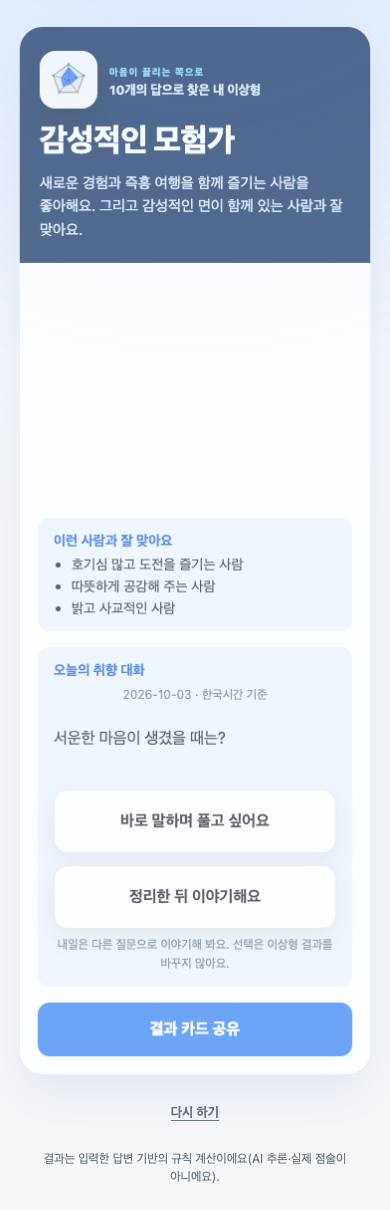
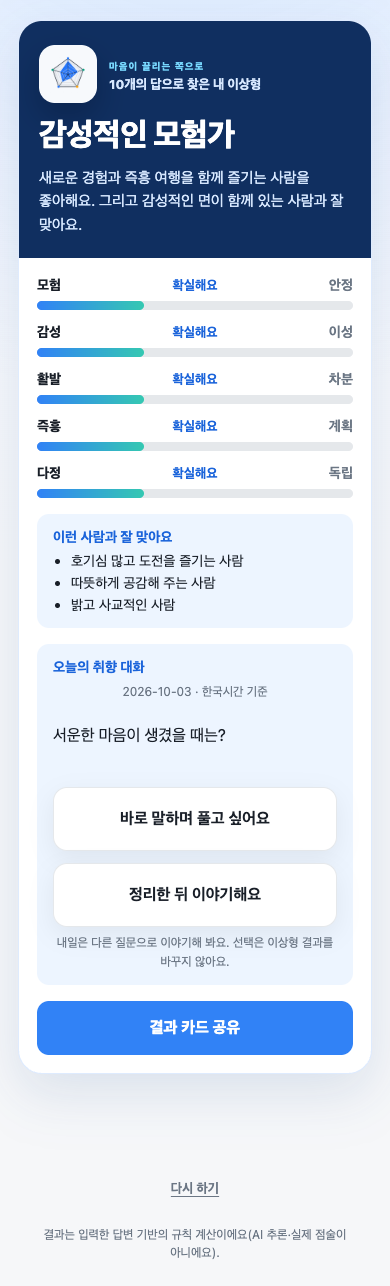
fix(landing): Show the complete mobile live result example
Show the complete unchanged live result screenshot and preserve the original example asset.

diff --git a/index.html b/index.html
@@ -8,7 +8,7 @@
 #daily-next[hidden]{display:none}
 #daily-next:not([hidden]){margin:12px 0;font-size:15px}
 #daily-today-link:not([hidden]){display:flex;align-items:center;min-height:48px;color:#1b64da;font-size:14px;font-weight:700;margin-bottom:8px}
-</style></head><body><main><article class="card"><img class="hero" src="taste-journey.webp" width="1200" height="550" alt="꽃밭에서 함께 취향 여행을 떠나는 두 토끼"><p class="eyebrow">마음이 끌리는 쪽으로</p><h1>내 이상형,<br>어떤 사람일까요?</h1><p>가벼운 10개 질문에 답하고<br>모험·감성·활발함·즉흥성·다정함의<br>다섯 축으로 내 취향을 만나보세요.</p><div class="chips"><span>10문항</span><span>약 1분 30초</span><span>토스에서 이용</span></div><a class="cta" href="intoss://ideal-type-calc">토스에서 내 취향 찾기</a><p class="hint">토스 앱이 설치된 휴대폰에서 열어주세요.</p><details class="search-help"><summary>토스 앱이 열리지 않나요?</summary><p>토스 앱을 직접 열고 검색창에서 <strong>이상형 찾기 테스트</strong>를 검색해 주세요.</p><div class="share-actions"><button id="copy-search-name" type="button">토스 검색어 복사</button></div><p id="search-copy-status" class="share-status" role="status" aria-live="polite"></p><input id="manual-search-name" class="manual-link" aria-label="토스에서 검색할 앱 이름" value="이상형 찾기 테스트" readonly hidden></details><details class="phone-transfer"><summary>PC에서 보고 있나요? 휴대폰으로 이어서 열기</summary><svg role="img" aria-label="휴대폰 카메라로 열 테스트 안내 링크 QR 코드" width="32.8mm" height="32.8mm" version="1.1" viewBox="0 0 32.8 32.8" xmlns="http://www.w3.org/2000/svg"><path d="M3.2,3.2H4V4H3.2zM4,3.2H4.8V4H4zM4.8,3.2H5.6V4H4.8zM5.6,3.2H6.4V4H5.6zM6.4,3.2H7.2V4H6.4zM7.2,3.2H8V4H7.2zM8,3.2H8.8V4H8zM13.6,3.2H14.4V4H13.6zM16,3.2H16.8V4H16zM16.8,3.2H17.6V4H16.8zM17.6,3.2H18.4V4H17.6zM18.4,3.2H19.2V4H18.4zM19.2,3.2H20V4H19.2zM21.6,3.2H22.4V4H21.6zM24,3.2H24.8V4H24zM24.8,3.2H25.6V4H24.8zM25.6,3.2H26.4V4H25.6zM26.4,3.2H27.2V4H26.4zM27.2,3.2H28V4H27.2zM28,3.2H28.8V4H28zM28.8,3.2H29.6V4H28.8zM3.2,4H4V4.8H3.2zM8,4H8.8V4.8H8zM11.2,4H12V4.8H11.2zM12,4H12.8V4.8H12zM12.8,4H13.6V4.8H12.8zM13.6,4H14.4V4.8H13.6zM14.4,4H15.2V4.8H14.4zM15.2,4H16V4.8H15.2zM16,4H16.8V4.8H16zM16.8,4H17.6V4.8H16.8zM20,4H20.8V4.8H20zM20.8,4H21.6V4.8H20.8zM24,4H24.8V4.8H24zM28.8,4H29.6V4.8H28.8zM3.2,4.8H4V5.6H3.2zM4.8,4.8H5.6V5.6H4.8zM5.6,4.8H6.4V5.6H5.6zM6.4,4.8H7.2V5.6H6.4zM8,4.8H8.8V5.6H8zM9.6,4.8H10.4V5.6H9.6zM11.2,4.8H12V5.6H11.2zM13.6,4.8H14.4V5.6H13.6zM15.2,4.8H16V5.6H15.2zM16.8,4.8H17.6V5.6H16.8zM17.6,4.8H18.4V5.6H17.6zM18.4,4.8H19.2V5.6H18.4zM19.2,4.8H20V5.6H19.2zM20,4.8H20.8V5.6H20zM24,4.8H24.8V5.6H24zM25.6,4.8H26.4V5.6H25.6zM26.4,4.8H27.2V5.6H26.4zM27.2,4.8H28V5.6H27.2zM28.8,4.8H29.6V5.6H28.8zM3.2,5.6H4V6.4H3.2zM4.8,5.6H5.6V6.4H4.8zM5.6,5.6H6.4V6.4H5.6zM6.4,5.6H7.2V6.4H6.4zM8,5.6H8.8V6.4H8zM9.6,5.6H10.4V6.4H9.6zM10.4,5.6H11.2V6.4H10.4zM11.2,5.6H12V6.4H11.2zM12,5.6H12.8V6.4H12zM12.8,5.6H13.6V6.4H12.8zM14.4,5.6H15.2V6.4H14.4zM16,5.6H16.8V6.4H16zM18.4,5.6H19.2V6.4H18.4zM19.2,5.6H20V6.4H19.2zM20.8,5.6H21.6V6.4H20.8zM22.4,5.6H23.2V6.4H22.4zM24,5.6H24.8V6.4H24zM25.6,5.6H26.4V6.4H25.6zM26.4,5.6H27.2V6.4H26.4zM27.2,5.6H28V6.4H27.2zM28.8,5.6H29.6V6.4H28.8zM3.2,6.4H4V7.2H3.2zM4.8,6.4H5.6V7.2H4.8zM5.6,6.4H6.4V7.2H5.6zM6.4,6.4H7.2V7.2H6.4zM8,6.4H8.8V7.2H8zM9.6,6.4H10.4V7.2H9.6zM10.4,6.4H11.2V7.2H10.4zM13.6,6.4H14.4V7.2H13.6zM15.2,6.4H16V7.2H15.2zM17.6,6.4H18.4V7.2H17.6zM21.6,6.4H22.4V7.2H21.6zM24,6.4H24.8V7.2H24zM25.6,6.4H26.4V7.2H25.6zM26.4,6.4H27.2V7.2H26.4zM27.2,6.4H28V7.2H27.2zM28.8,6.4H29.6V7.2H28.8zM3.2,7.2H4V8H3.2zM8,7.2H8.8V8H8zM9.6,7.2H10.4V8H9.6zM10.4,7.2H11.2V8H10.4zM12,7.2H12.8V8H12zM13.6,7.2H14.4V8H13.6zM14.4,7.2H15.2V8H14.4zM15.2,7.2H16V8H15.2zM16,7.2H16.8V8H16zM16.8,7.2H17.6V8H16.8zM19.2,7.2H20V8H19.2zM20.8,7.2H21.6V8H20.8zM24,7.2H24.8V8H24zM28.8,7.2H29.6V8H28.8zM3.2,8H4V8.8H3.2zM4,8H4.8V8.8H4zM4.8,8H5.6V8.8H4.8zM5.6,8H6.4V8.8H5.6zM6.4,8H7.2V8.8H6.4zM7.2,8H8V8.8H7.2zM8,8H8.8V8.8H8zM9.6,8H10.4V8.8H9.6zM11.2,8H12V8.8H11.2zM12.8,8H13.6V8.8H12.8zM14.4,8H15.2V8.8H14.4zM16,8H16.8V8.8H16zM17.6,8H18.4V8.8H17.6zM19.2,8H20V8.8H19.2zM20.8,8H21.6V8.8H20.8zM22.4,8H23.2V8.8H22.4zM24,8H24.8V8.8H24zM24.8,8H25.6V8.8H24.8zM25.6,8H26.4V8.8H25.6zM26.4,8H27.2V8.8H26.4zM27.2,8H28V8.8H27.2zM28,8H28.8V8.8H28zM28.8,8H29.6V8.8H28.8zM9.6,8.8H10.4V9.6H9.6zM10.4,8.8H11.2V9.6H10.4zM11.2,8.8H12V9.6H11.2zM12.8,8.8H13.6V9.6H12.8zM14.4,8.8H15.2V9.6H14.4zM15.2,8.8H16V9.6H15.2zM20,8.8H20.8V9.6H20zM22.4,8.8H23.2V9.6H22.4zM3.2,9.6H4V10.4H3.2zM4.8,9.6H5.6V10.4H4.8zM5.6,9.6H6.4V10.4H5.6zM6.4,9.6H7.2V10.4H6.4zM7.2,9.6H8V10.4H7.2zM8,9.6H8.8V10.4H8zM10.4,9.6H11.2V10.4H10.4zM11.2,9.6H12V10.4H11.2zM12,9.6H12.8V10.4H12zM13.6,9.6H14.4V10.4H13.6zM15.2,9.6H16V10.4H15.2zM16.8,9.6H17.6V10.4H16.8zM20.8,9.6H21.6V10.4H20.8zM22.4,9.6H23.2V10.4H22.4zM24,9.6H24.8V10.4H24zM24.8,9.6H25.6V10.4H24.8zM25.6,9.6H26.4V10.4H25.6zM26.4,9.6H27.2V10.4H26.4zM27.2,9.6H28V10.4H27.2zM4.8,10.4H5.6V11.2H4.8zM5.6,10.4H6.4V11.2H5.6zM6.4,10.4H7.2V11.2H6.4zM7.2,10.4H8V11.2H7.2zM9.6,10.4H10.4V11.2H9.6zM10.4,10.4H11.2V11.2H10.4zM11.2,10.4H12V11.2H11.2zM12.8,10.4H13.6V11.2H12.8zM16,10.4H16.8V11.2H16zM17.6,10.4H18.4V11.2H17.6zM18.4,10.4H19.2V11.2H18.4zM20,10.4H20.8V11.2H20zM21.6,10.4H22.4V11.2H21.6zM24,10.4H24.8V11.2H24zM24.8,10.4H25.6V11.2H24.8zM26.4,10.4H27.2V11.2H26.4zM27.2,10.4H28V11.2H27.2zM28.8,10.4H29.6V11.2H28.8zM3.2,11.2H4V12H3.2zM8,11.2H8.8V12H8zM8.8,11.2H9.6V12H8.8zM10.4,11.2H11.2V12H10.4zM12,11.2H12.8V12H12zM12.8,11.2H13.6V12H12.8zM15.2,11.2H16V12H15.2zM17.6,11.2H18.4V12H17.6zM19.2,11.2H20V12H19.2zM24,11.2H24.8V12H24zM25.6,11.2H26.4V12H25.6zM27.2,11.2H28V12H27.2zM28,11.2H28.8V12H28zM4,12H4.8V12.8H4zM5.6,12H6.4V12.8H5.6zM6.4,12H7.2V12.8H6.4zM7.2,12H8V12.8H7.2zM8.8,12H9.6V12.8H8.8zM9.6,12H10.4V12.8H9.6zM10.4,12H11.2V12.8H10.4zM11.2,12H12V12.8H11.2zM12,12H12.8V12.8H12zM12.8,12H13.6V12.8H12.8zM14.4,12H15.2V12.8H14.4zM16,12H16.8V12.8H16zM20,12H20.8V12.8H20zM20.8,12H21.6V12.8H20.8zM21.6,12H22.4V12.8H21.6zM23.2,12H24V12.8H23.2zM25.6,12H26.4V12.8H25.6zM26.4,12H27.2V12.8H26.4zM27.2,12H28V12.8H27.2zM3.2,12.8H4V13.6H3.2zM7.2,12.8H8V13.6H7.2zM8,12.8H8.8V13.6H8zM8.8,12.8H9.6V13.6H8.8zM11.2,12.8H12V13.6H11.2zM12,12.8H12.8V13.6H12zM12.8,12.8H13.6V13.6H12.8zM17.6,12.8H18.4V13.6H17.6zM18.4,12.8H19.2V13.6H18.4zM22.4,12.8H23.2V13.6H22.4zM23.2,12.8H24V13.6H23.2zM25.6,12.8H26.4V13.6H25.6zM26.4,12.8H27.2V13.6H26.4zM28,12.8H28.8V13.6H28zM3.2,13.6H4V14.4H3.2zM4,13.6H4.8V14.4H4zM5.6,13.6H6.4V14.4H5.6zM6.4,13.6H7.2V14.4H6.4zM9.6,13.6H10.4V14.4H9.6zM10.4,13.6H11.2V14.4H10.4zM12,13.6H12.8V14.4H12zM12.8,13.6H13.6V14.4H12.8zM13.6,13.6H14.4V14.4H13.6zM14.4,13.6H15.2V14.4H14.4zM15.2,13.6H16V14.4H15.2zM16,13.6H16.8V14.4H16zM16.8,13.6H17.6V14.4H16.8zM19.2,13.6H20V14.4H19.2zM20,13.6H20.8V14.4H20zM21.6,13.6H22.4V14.4H21.6zM23.2,13.6H24V14.4H23.2zM24,13.6H24.8V14.4H24zM26.4,13.6H27.2V14.4H26.4zM27.2,13.6H28V14.4H27.2zM28,13.6H28.8V14.4H28zM28.8,13.6H29.6V14.4H28.8zM3.2,14.4H4V15.2H3.2zM4,14.4H4.8V15.2H4zM4.8,14.4H5.6V15.2H4.8zM8,14.4H8.8V15.2H8zM8.8,14.4H9.6V15.2H8.8zM9.6,14.4H10.4V15.2H9.6zM11.2,14.4H12V15.2H11.2zM12,14.4H12.8V15.2H12zM12.8,14.4H13.6V15.2H12.8zM14.4,14.4H15.2V15.2H14.4zM17.6,14.4H18.4V15.2H17.6zM18.4,14.4H19.2V15.2H18.4zM20,14.4H20.8V15.2H20zM20.8,14.4H21.6V15.2H20.8zM23.2,14.4H24V15.2H23.2zM24,14.4H24.8V15.2H24zM24.8,14.4H25.6V15.2H24.8zM26.4,14.4H27.2V15.2H26.4zM27.2,14.4H28V15.2H27.2zM28,14.4H28.8V15.2H28zM3.2,15.2H4V16H3.2zM5.6,15.2H6.4V16H5.6zM6.4,15.2H7.2V16H6.4zM12.8,15.2H13.6V16H12.8zM13.6,15.2H14.4V16H13.6zM16,15.2H16.8V16H16zM18.4,15.2H19.2V16H18.4zM19.2,15.2H20V16H19.2zM20,15.2H20.8V16H20zM20.8,15.2H21.6V16H20.8zM21.6,15.2H22.4V16H21.6zM22.4,15.2H23.2V16H22.4zM23.2,15.2H24V16H23.2zM24,15.2H24.8V16H24zM26.4,15.2H27.2V16H26.4zM27.2,15.2H28V16H27.2zM3.2,16H4V16.8H3.2zM4,16H4.8V16.8H4zM7.2,16H8V16.8H7.2zM8,16H8.8V16.8H8zM10.4,16H11.2V16.8H10.4zM12.8,16H13.6V16.8H12.8zM16.8,16H17.6V16.8H16.8zM18.4,16H19.2V16.8H18.4zM20.8,16H21.6V16.8H20.8zM22.4,16H23.2V16.8H22.4zM23.2,16H24V16.8H23.2zM24.8,16H25.6V16.8H24.8zM25.6,16H26.4V16.8H25.6zM28.8,16H29.6V16.8H28.8zM4,16.8H4.8V17.6H4zM4.8,16.8H5.6V17.6H4.8zM6.4,16.8H7.2V17.6H6.4zM7.2,16.8H8V17.6H7.2zM8.8,16.8H9.6V17.6H8.8zM9.6,16.8H10.4V17.6H9.6zM10.4,16.8H11.2V17.6H10.4zM14.4,16.8H15.2V17.6H14.4zM16.8,16.8H17.6V17.6H16.8zM18.4,16.8H19.2V17.6H18.4zM19.2,16.8H20V17.6H19.2zM20.8,16.8H21.6V17.6H20.8zM21.6,16.8H22.4V17.6H21.6zM24,16.8H24.8V17.6H24zM24.8,16.8H25.6V17.6H24.8zM26.4,16.8H27.2V17.6H26.4zM27.2,16.8H28V17.6H27.2zM28.8,16.8H29.6V17.6H28.8zM3.2,17.6H4V18.4H3.2zM7.2,17.6H8V18.4H7.2zM8,17.6H8.8V18.4H8zM12,17.6H12.8V18.4H12zM14.4,17.6H15.2V18.4H14.4zM15.2,17.6H16V18.4H15.2zM16.8,17.6H17.6V18.4H16.8zM19.2,17.6H20V18.4H19.2zM20,17.6H20.8V18.4H20zM20.8,17.6H21.6V18.4H20.8zM24.8,17.6H25.6V18.4H24.8zM25.6,17.6H26.4V18.4H25.6zM27.2,17.6H28V18.4H27.2zM28,17.6H28.8V18.4H28zM9.6,18.4H10.4V19.2H9.6zM10.4,18.4H11.2V19.2H10.4zM12.8,18.4H13.6V19.2H12.8zM16.8,18.4H17.6V19.2H16.8zM17.6,18.4H18.4V19.2H17.6zM20,18.4H20.8V19.2H20zM20.8,18.4H21.6V19.2H20.8zM21.6,18.4H22.4V19.2H21.6zM24.8,18.4H25.6V19.2H24.8zM25.6,18.4H26.4V19.2H25.6zM26.4,18.4H27.2V19.2H26.4zM27.2,18.4H28V19.2H27.2zM28,18.4H28.8V19.2H28zM3.2,19.2H4V20H3.2zM4.8,19.2H5.6V20H4.8zM6.4,19.2H7.2V20H6.4zM7.2,19.2H8V20H7.2zM8,19.2H8.8V20H8zM8.8,19.2H9.6V20H8.8zM11.2,19.2H12V20H11.2zM12,19.2H12.8V20H12zM14.4,19.2H15.2V20H14.4zM15.2,19.2H16V20H15.2zM16,19.2H16.8V20H16zM20.8,19.2H21.6V20H20.8zM21.6,19.2H22.4V20H21.6zM22.4,19.2H23.2V20H22.4zM23.2,19.2H24V20H23.2zM25.6,19.2H26.4V20H25.6zM26.4,19.2H27.2V20H26.4zM28.8,19.2H29.6V20H28.8zM3.2,20H4V20.8H3.2zM4,20H4.8V20.8H4zM4.8,20H5.6V20.8H4.8zM5.6,20H6.4V20.8H5.6zM7.2,20H8V20.8H7.2zM9.6,20H10.4V20.8H9.6zM11.2,20H12V20.8H11.2zM12.8,20H13.6V20.8H12.8zM15.2,20H16V20.8H15.2zM17.6,20H18.4V20.8H17.6zM20,20H20.8V20.8H20zM21.6,20H22.4V20.8H21.6zM24,20H24.8V20.8H24zM27.2,20H28V20.8H27.2zM28.8,20H29.6V20.8H28.8zM3.2,20.8H4V21.6H3.2zM4.8,20.8H5.6V21.6H4.8zM8,20.8H8.8V21.6H8zM9.6,20.8H10.4V21.6H9.6zM12.8,20.8H13.6V21.6H12.8zM13.6,20.8H14.4V21.6H13.6zM14.4,20.8H15.2V21.6H14.4zM15.2,20.8H16V21.6H15.2zM16,20.8H16.8V21.6H16zM19.2,20.8H20V21.6H19.2zM23.2,20.8H24V21.6H23.2zM24,20.8H24.8V21.6H24zM26.4,20.8H27.2V21.6H26.4zM27.2,20.8H28V21.6H27.2zM28,20.8H28.8V21.6H28zM3.2,21.6H4V22.4H3.2zM4.8,21.6H5.6V22.4H4.8zM9.6,21.6H10.4V22.4H9.6zM12,21.6H12.8V22.4H12zM13.6,21.6H14.4V22.4H13.6zM15.2,21.6H16V22.4H15.2zM17.6,21.6H18.4V22.4H17.6zM18.4,21.6H19.2V22.4H18.4zM19.2,21.6H20V22.4H19.2zM20,21.6H20.8V22.4H20zM20.8,21.6H21.6V22.4H20.8zM24,21.6H24.8V22.4H24zM25.6,21.6H26.4V22.4H25.6zM26.4,21.6H27.2V22.4H26.4zM27.2,21.6H28V22.4H27.2zM28.8,21.6H29.6V22.4H28.8zM3.2,22.4H4V23.2H3.2zM8,22.4H8.8V23.2H8zM9.6,22.4H10.4V23.2H9.6zM10.4,22.4H11.2V23.2H10.4zM11.2,22.4H12V23.2H11.2zM13.6,22.4H14.4V23.2H13.6zM15.2,22.4H16V23.2H15.2zM16.8,22.4H17.6V23.2H16.8zM18.4,22.4H19.2V23.2H18.4zM20.8,22.4H21.6V23.2H20.8zM21.6,22.4H22.4V23.2H21.6zM22.4,22.4H23.2V23.2H22.4zM23.2,22.4H24V23.2H23.2zM24,22.4H24.8V23.2H24zM24.8,22.4H25.6V23.2H24.8zM25.6,22.4H26.4V23.2H25.6zM9.6,23.2H10.4V24H9.6zM12.8,23.2H13.6V24H12.8zM13.6,23.2H14.4V24H13.6zM16,23.2H16.8V24H16zM17.6,23.2H18.4V24H17.6zM18.4,23.2H19.2V24H18.4zM19.2,23.2H20V24H19.2zM22.4,23.2H23.2V24H22.4zM25.6,23.2H26.4V24H25.6zM27.2,23.2H28V24H27.2zM28.8,23.2H29.6V24H28.8zM3.2,24H4V24.8H3.2zM4,24H4.8V24.8H4zM4.8,24H5.6V24.8H4.8zM5.6,24H6.4V24.8H5.6zM6.4,24H7.2V24.8H6.4zM7.2,24H8V24.8H7.2zM8,24H8.8V24.8H8zM12,24H12.8V24.8H12zM14.4,24H15.2V24.8H14.4zM15.2,24H16V24.8H15.2zM16,24H16.8V24.8H16zM17.6,24H18.4V24.8H17.6zM19.2,24H20V24.8H19.2zM20.8,24H21.6V24.8H20.8zM21.6,24H22.4V24.8H21.6zM22.4,24H23.2V24.8H22.4zM24,24H24.8V24.8H24zM25.6,24H26.4V24.8H25.6zM27.2,24H28V24.8H27.2zM28,24H28.8V24.8H28zM3.2,24.8H4V25.6H3.2zM8,24.8H8.8V25.6H8zM9.6,24.8H10.4V25.6H9.6zM11.2,24.8H12V25.6H11.2zM12,24.8H12.8V25.6H12zM15.2,24.8H16V25.6H15.2zM16,24.8H16.8V25.6H16zM18.4,24.8H19.2V25.6H18.4zM20,24.8H20.8V25.6H20zM20.8,24.8H21.6V25.6H20.8zM21.6,24.8H22.4V25.6H21.6zM22.4,24.8H23.2V25.6H22.4zM25.6,24.8H26.4V25.6H25.6zM26.4,24.8H27.2V25.6H26.4zM27.2,24.8H28V25.6H27.2zM28,24.8H28.8V25.6H28zM28.8,24.8H29.6V25.6H28.8zM3.2,25.6H4V26.4H3.2zM4.8,25.6H5.6V26.4H4.8zM5.6,25.6H6.4V26.4H5.6zM6.4,25.6H7.2V26.4H6.4zM8,25.6H8.8V26.4H8zM9.6,25.6H10.4V26.4H9.6zM10.4,25.6H11.2V26.4H10.4zM12,25.6H12.8V26.4H12zM15.2,25.6H16V26.4H15.2zM17.6,25.6H18.4V26.4H17.6zM20.8,25.6H21.6V26.4H20.8zM22.4,25.6H23.2V26.4H22.4zM23.2,25.6H24V26.4H23.2zM24,25.6H24.8V26.4H24zM24.8,25.6H25.6V26.4H24.8zM25.6,25.6H26.4V26.4H25.6zM26.4,25.6H27.2V26.4H26.4zM28,25.6H28.8V26.4H28zM28.8,25.6H29.6V26.4H28.8zM3.2,26.4H4V27.2H3.2zM4.8,26.4H5.6V27.2H4.8zM5.6,26.4H6.4V27.2H5.6zM6.4,26.4H7.2V27.2H6.4zM8,26.4H8.8V27.2H8zM9.6,26.4H10.4V27.2H9.6zM11.2,26.4H12V27.2H11.2zM12.8,26.4H13.6V27.2H12.8zM15.2,26.4H16V27.2H15.2zM16,26.4H16.8V27.2H16zM16.8,26.4H17.6V27.2H16.8zM18.4,26.4H19.2V27.2H18.4zM21.6,26.4H22.4V27.2H21.6zM22.4,26.4H23.2V27.2H22.4zM23.2,26.4H24V27.2H23.2zM25.6,26.4H26.4V27.2H25.6zM26.4,26.4H27.2V27.2H26.4zM28,26.4H28.8V27.2H28zM28.8,26.4H29.6V27.2H28.8zM3.2,27.2H4V28H3.2zM4.8,27.2H5.6V28H4.8zM5.6,27.2H6.4V28H5.6zM6.4,27.2H7.2V28H6.4zM8,27.2H8.8V28H8zM9.6,27.2H10.4V28H9.6zM10.4,27.2H11.2V28H10.4zM14.4,27.2H15.2V28H14.4zM17.6,27.2H18.4V28H17.6zM19.2,27.2H20V28H19.2zM20,27.2H20.8V28H20zM21.6,27.2H22.4V28H21.6zM22.4,27.2H23.2V28H22.4zM24,27.2H24.8V28H24zM24.8,27.2H25.6V28H24.8zM27.2,27.2H28V28H27.2zM3.2,28H4V28.8H3.2zM8,28H8.8V28.8H8zM10.4,28H11.2V28.8H10.4zM12,28H12.8V28.8H12zM12.8,28H13.6V28.8H12.8zM14.4,28H15.2V28.8H14.4zM16,28H16.8V28.8H16zM17.6,28H18.4V28.8H17.6zM18.4,28H19.2V28.8H18.4zM19.2,28H20V28.8H19.2zM20,28H20.8V28.8H20zM20.8,28H21.6V28.8H20.8zM23.2,28H24V28.8H23.2zM25.6,28H26.4V28.8H25.6zM27.2,28H28V28.8H27.2zM3.2,28.8H4V29.6H3.2zM4,28.8H4.8V29.6H4zM4.8,28.8H5.6V29.6H4.8zM5.6,28.8H6.4V29.6H5.6zM6.4,28.8H7.2V29.6H6.4zM7.2,28.8H8V29.6H7.2zM8,28.8H8.8V29.6H8zM9.6,28.8H10.4V29.6H9.6zM11.2,28.8H12V29.6H11.2zM12.8,28.8H13.6V29.6H12.8zM13.6,28.8H14.4V29.6H13.6zM14.4,28.8H15.2V29.6H14.4zM16,28.8H16.8V29.6H16zM16.8,28.8H17.6V29.6H16.8zM19.2,28.8H20V29.6H19.2zM20.8,28.8H21.6V29.6H20.8zM22.4,28.8H23.2V29.6H22.4zM23.2,28.8H24V29.6H23.2zM24.8,28.8H25.6V29.6H24.8zM28,28.8H28.8V29.6H28z" id="qr-path" fill="#000000" fill-opacity="1" fill-rule="nonzero" stroke="none" /></svg><p>휴대폰 카메라로 QR 코드를 비추면 이 안내 페이지가 열려요. 휴대폰에서 토스에서 내 취향 찾기를 눌러주세요.</p><p>QR을 읽기 어렵다면 아래 링크를 휴대폰으로 보내주세요.<br><a href="https://neogenesisai.github.io/ideal-type-calc-og/">테스트 안내 페이지 링크</a></p></details><div class="share-actions"><button type="button" id="share-test">친구에게 테스트 공유</button><button type="button" id="copy-link">링크 복사</button></div><p id="share-status" class="share-status" role="status" aria-live="polite"></p><input id="manual-link" class="manual-link" aria-label="친구에게 보낼 테스트 링크" readonly hidden><section class="daily-preview" aria-labelledby="daily-title"><h2 id="daily-title">오늘의 취향 대화</h2><p id="daily-date" class="daily-date"></p><p id="daily-archive-note" class="small" hidden></p><a id="daily-today-link" href="https://neogenesisai.github.io/ideal-type-calc-og/#daily-title" hidden>오늘의 새 질문 보기</a><p id="daily-question"></p><div class="daily-options"><button id="daily-a" type="button" aria-pressed="false"></button><button id="daily-b" type="button" aria-pressed="false"></button></div><p id="daily-status" class="daily-status" role="status" aria-live="polite"></p><a class="cta" id="daily-next" href="intoss://ideal-type-calc" hidden>토스에서 10문항으로 내 취향 확인</a><div class="share-actions"><button type="button" id="share-daily">오늘의 질문 친구에게 보내기</button></div><p id="daily-share-status" class="share-status" role="status" aria-live="polite"></p><textarea id="daily-share-text" class="manual-link" rows="7" aria-label="친구에게 보낼 오늘의 질문" readonly hidden></textarea><p class="small">공유 링크에서는 같은 날짜의 질문을 볼 수 있고, 내 선택은 포함되지 않아요. 오늘의 선택만 이 브라우저에 저장돼요. 지난 질문의 선택은 저장되지 않으며 토스 결과에는 반영되지 않아요.</p><noscript><p>오늘의 질문은 토스에서 결과를 확인한 뒤 볼 수 있어요.</p></noscript></section><h2 class="preview-intro" id="preview-heading">결과는 이렇게 보여요</h2><p class="small">예시 답변으로 만든 결과예요. 내 결과는 토스에서 10문항에 답하면 확인할 수 있어요.</p><details class="result-preview" aria-labelledby="preview-heading"><summary><span class="preview-crop"><img src="result-live9.png" width="390" height="1210" loading="lazy" alt="예시 결과: 감성적인 모험가. 새로운 경험과 즉흥 여행을 즐기는 사람을 좋아하는 취향"></span><span class="preview-expand">다섯 축이 담긴 전체 예시 펼치기</span><span class="preview-collapse">전체 예시 접기</span></summary><div class="preview-body"><p class="preview-note">아래는 실제 앱 화면의 예시예요. 날짜와 오늘의 질문은 이용하는 날에 따라 달라져요.</p><img class="preview-full" src="result-live9.png" width="390" height="1210" loading="lazy" alt="감성적인 모험가 예시 화면: 모험·감성·활발·즉흥·다정 취향, 잘 맞는 사람의 특징, 오늘의 취향 대화"></div></details><a class="cta" id="start-after-preview" href="intoss://ideal-type-calc">토스에서 내 결과 확인하기</a><p class="hint">10문항에 답하고 내 취향을 확인해 보세요.</p><section class="feature"><h2>결과는 친구와 함께</h2><p>내 취향 프로필과 잘 맞는 사람의 특징을 확인하고, 결과 카드를 공유해 서로의 취향을 이야기해 보세요.</p></section><section class="feature"><h2>내일은 새로운 취향 대화</h2><p>결과 아래에서 매일 바뀌는 질문에 답해 보세요. 오늘의 선택은 테스트 결과를 바꾸지 않아요.</p></section><p class="small">답변에 정해진 가중치를 적용하는 재미용 자기취향 테스트예요. AI 추론·심리 진단·점술·연애 성공 예측·실제 상대 추천이 아닙니다. 이 안내 페이지의 오늘의 선택은 이 브라우저에만 저장되며, 토스 서비스 이용 연령은 만 19세 이상입니다.</p></article><p class="foot">이상형 찾기 테스트 · 이상형 계산기</p></main><script>
+</style></head><body><main><article class="card"><img class="hero" src="taste-journey.webp" width="1200" height="550" alt="꽃밭에서 함께 취향 여행을 떠나는 두 토끼"><p class="eyebrow">마음이 끌리는 쪽으로</p><h1>내 이상형,<br>어떤 사람일까요?</h1><p>가벼운 10개 질문에 답하고<br>모험·감성·활발함·즉흥성·다정함의<br>다섯 축으로 내 취향을 만나보세요.</p><div class="chips"><span>10문항</span><span>약 1분 30초</span><span>토스에서 이용</span></div><a class="cta" href="intoss://ideal-type-calc">토스에서 내 취향 찾기</a><p class="hint">토스 앱이 설치된 휴대폰에서 열어주세요.</p><details class="search-help"><summary>토스 앱이 열리지 않나요?</summary><p>토스 앱을 직접 열고 검색창에서 <strong>이상형 찾기 테스트</strong>를 검색해 주세요.</p><div class="share-actions"><button id="copy-search-name" type="button">토스 검색어 복사</button></div><p id="search-copy-status" class="share-status" role="status" aria-live="polite"></p><input id="manual-search-name" class="manual-link" aria-label="토스에서 검색할 앱 이름" value="이상형 찾기 테스트" readonly hidden></details><details class="phone-transfer"><summary>PC에서 보고 있나요? 휴대폰으로 이어서 열기</summary><svg role="img" aria-label="휴대폰 카메라로 열 테스트 안내 링크 QR 코드" width="32.8mm" height="32.8mm" version="1.1" viewBox="0 0 32.8 32.8" xmlns="http://www.w3.org/2000/svg"><path d="M3.2,3.2H4V4H3.2zM4,3.2H4.8V4H4zM4.8,3.2H5.6V4H4.8zM5.6,3.2H6.4V4H5.6zM6.4,3.2H7.2V4H6.4zM7.2,3.2H8V4H7.2zM8,3.2H8.8V4H8zM13.6,3.2H14.4V4H13.6zM16,3.2H16.8V4H16zM16.8,3.2H17.6V4H16.8zM17.6,3.2H18.4V4H17.6zM18.4,3.2H19.2V4H18.4zM19.2,3.2H20V4H19.2zM21.6,3.2H22.4V4H21.6zM24,3.2H24.8V4H24zM24.8,3.2H25.6V4H24.8zM25.6,3.2H26.4V4H25.6zM26.4,3.2H27.2V4H26.4zM27.2,3.2H28V4H27.2zM28,3.2H28.8V4H28zM28.8,3.2H29.6V4H28.8zM3.2,4H4V4.8H3.2zM8,4H8.8V4.8H8zM11.2,4H12V4.8H11.2zM12,4H12.8V4.8H12zM12.8,4H13.6V4.8H12.8zM13.6,4H14.4V4.8H13.6zM14.4,4H15.2V4.8H14.4zM15.2,4H16V4.8H15.2zM16,4H16.8V4.8H16zM16.8,4H17.6V4.8H16.8zM20,4H20.8V4.8H20zM20.8,4H21.6V4.8H20.8zM24,4H24.8V4.8H24zM28.8,4H29.6V4.8H28.8zM3.2,4.8H4V5.6H3.2zM4.8,4.8H5.6V5.6H4.8zM5.6,4.8H6.4V5.6H5.6zM6.4,4.8H7.2V5.6H6.4zM8,4.8H8.8V5.6H8zM9.6,4.8H10.4V5.6H9.6zM11.2,4.8H12V5.6H11.2zM13.6,4.8H14.4V5.6H13.6zM15.2,4.8H16V5.6H15.2zM16.8,4.8H17.6V5.6H16.8zM17.6,4.8H18.4V5.6H17.6zM18.4,4.8H19.2V5.6H18.4zM19.2,4.8H20V5.6H19.2zM20,4.8H20.8V5.6H20zM24,4.8H24.8V5.6H24zM25.6,4.8H26.4V5.6H25.6zM26.4,4.8H27.2V5.6H26.4zM27.2,4.8H28V5.6H27.2zM28.8,4.8H29.6V5.6H28.8zM3.2,5.6H4V6.4H3.2zM4.8,5.6H5.6V6.4H4.8zM5.6,5.6H6.4V6.4H5.6zM6.4,5.6H7.2V6.4H6.4zM8,5.6H8.8V6.4H8zM9.6,5.6H10.4V6.4H9.6zM10.4,5.6H11.2V6.4H10.4zM11.2,5.6H12V6.4H11.2zM12,5.6H12.8V6.4H12zM12.8,5.6H13.6V6.4H12.8zM14.4,5.6H15.2V6.4H14.4zM16,5.6H16.8V6.4H16zM18.4,5.6H19.2V6.4H18.4zM19.2,5.6H20V6.4H19.2zM20.8,5.6H21.6V6.4H20.8zM22.4,5.6H23.2V6.4H22.4zM24,5.6H24.8V6.4H24zM25.6,5.6H26.4V6.4H25.6zM26.4,5.6H27.2V6.4H26.4zM27.2,5.6H28V6.4H27.2zM28.8,5.6H29.6V6.4H28.8zM3.2,6.4H4V7.2H3.2zM4.8,6.4H5.6V7.2H4.8zM5.6,6.4H6.4V7.2H5.6zM6.4,6.4H7.2V7.2H6.4zM8,6.4H8.8V7.2H8zM9.6,6.4H10.4V7.2H9.6zM10.4,6.4H11.2V7.2H10.4zM13.6,6.4H14.4V7.2H13.6zM15.2,6.4H16V7.2H15.2zM17.6,6.4H18.4V7.2H17.6zM21.6,6.4H22.4V7.2H21.6zM24,6.4H24.8V7.2H24zM25.6,6.4H26.4V7.2H25.6zM26.4,6.4H27.2V7.2H26.4zM27.2,6.4H28V7.2H27.2zM28.8,6.4H29.6V7.2H28.8zM3.2,7.2H4V8H3.2zM8,7.2H8.8V8H8zM9.6,7.2H10.4V8H9.6zM10.4,7.2H11.2V8H10.4zM12,7.2H12.8V8H12zM13.6,7.2H14.4V8H13.6zM14.4,7.2H15.2V8H14.4zM15.2,7.2H16V8H15.2zM16,7.2H16.8V8H16zM16.8,7.2H17.6V8H16.8zM19.2,7.2H20V8H19.2zM20.8,7.2H21.6V8H20.8zM24,7.2H24.8V8H24zM28.8,7.2H29.6V8H28.8zM3.2,8H4V8.8H3.2zM4,8H4.8V8.8H4zM4.8,8H5.6V8.8H4.8zM5.6,8H6.4V8.8H5.6zM6.4,8H7.2V8.8H6.4zM7.2,8H8V8.8H7.2zM8,8H8.8V8.8H8zM9.6,8H10.4V8.8H9.6zM11.2,8H12V8.8H11.2zM12.8,8H13.6V8.8H12.8zM14.4,8H15.2V8.8H14.4zM16,8H16.8V8.8H16zM17.6,8H18.4V8.8H17.6zM19.2,8H20V8.8H19.2zM20.8,8H21.6V8.8H20.8zM22.4,8H23.2V8.8H22.4zM24,8H24.8V8.8H24zM24.8,8H25.6V8.8H24.8zM25.6,8H26.4V8.8H25.6zM26.4,8H27.2V8.8H26.4zM27.2,8H28V8.8H27.2zM28,8H28.8V8.8H28zM28.8,8H29.6V8.8H28.8zM9.6,8.8H10.4V9.6H9.6zM10.4,8.8H11.2V9.6H10.4zM11.2,8.8H12V9.6H11.2zM12.8,8.8H13.6V9.6H12.8zM14.4,8.8H15.2V9.6H14.4zM15.2,8.8H16V9.6H15.2zM20,8.8H20.8V9.6H20zM22.4,8.8H23.2V9.6H22.4zM3.2,9.6H4V10.4H3.2zM4.8,9.6H5.6V10.4H4.8zM5.6,9.6H6.4V10.4H5.6zM6.4,9.6H7.2V10.4H6.4zM7.2,9.6H8V10.4H7.2zM8,9.6H8.8V10.4H8zM10.4,9.6H11.2V10.4H10.4zM11.2,9.6H12V10.4H11.2zM12,9.6H12.8V10.4H12zM13.6,9.6H14.4V10.4H13.6zM15.2,9.6H16V10.4H15.2zM16.8,9.6H17.6V10.4H16.8zM20.8,9.6H21.6V10.4H20.8zM22.4,9.6H23.2V10.4H22.4zM24,9.6H24.8V10.4H24zM24.8,9.6H25.6V10.4H24.8zM25.6,9.6H26.4V10.4H25.6zM26.4,9.6H27.2V10.4H26.4zM27.2,9.6H28V10.4H27.2zM4.8,10.4H5.6V11.2H4.8zM5.6,10.4H6.4V11.2H5.6zM6.4,10.4H7.2V11.2H6.4zM7.2,10.4H8V11.2H7.2zM9.6,10.4H10.4V11.2H9.6zM10.4,10.4H11.2V11.2H10.4zM11.2,10.4H12V11.2H11.2zM12.8,10.4H13.6V11.2H12.8zM16,10.4H16.8V11.2H16zM17.6,10.4H18.4V11.2H17.6zM18.4,10.4H19.2V11.2H18.4zM20,10.4H20.8V11.2H20zM21.6,10.4H22.4V11.2H21.6zM24,10.4H24.8V11.2H24zM24.8,10.4H25.6V11.2H24.8zM26.4,10.4H27.2V11.2H26.4zM27.2,10.4H28V11.2H27.2zM28.8,10.4H29.6V11.2H28.8zM3.2,11.2H4V12H3.2zM8,11.2H8.8V12H8zM8.8,11.2H9.6V12H8.8zM10.4,11.2H11.2V12H10.4zM12,11.2H12.8V12H12zM12.8,11.2H13.6V12H12.8zM15.2,11.2H16V12H15.2zM17.6,11.2H18.4V12H17.6zM19.2,11.2H20V12H19.2zM24,11.2H24.8V12H24zM25.6,11.2H26.4V12H25.6zM27.2,11.2H28V12H27.2zM28,11.2H28.8V12H28zM4,12H4.8V12.8H4zM5.6,12H6.4V12.8H5.6zM6.4,12H7.2V12.8H6.4zM7.2,12H8V12.8H7.2zM8.8,12H9.6V12.8H8.8zM9.6,12H10.4V12.8H9.6zM10.4,12H11.2V12.8H10.4zM11.2,12H12V12.8H11.2zM12,12H12.8V12.8H12zM12.8,12H13.6V12.8H12.8zM14.4,12H15.2V12.8H14.4zM16,12H16.8V12.8H16zM20,12H20.8V12.8H20zM20.8,12H21.6V12.8H20.8zM21.6,12H22.4V12.8H21.6zM23.2,12H24V12.8H23.2zM25.6,12H26.4V12.8H25.6zM26.4,12H27.2V12.8H26.4zM27.2,12H28V12.8H27.2zM3.2,12.8H4V13.6H3.2zM7.2,12.8H8V13.6H7.2zM8,12.8H8.8V13.6H8zM8.8,12.8H9.6V13.6H8.8zM11.2,12.8H12V13.6H11.2zM12,12.8H12.8V13.6H12zM12.8,12.8H13.6V13.6H12.8zM17.6,12.8H18.4V13.6H17.6zM18.4,12.8H19.2V13.6H18.4zM22.4,12.8H23.2V13.6H22.4zM23.2,12.8H24V13.6H23.2zM25.6,12.8H26.4V13.6H25.6zM26.4,12.8H27.2V13.6H26.4zM28,12.8H28.8V13.6H28zM3.2,13.6H4V14.4H3.2zM4,13.6H4.8V14.4H4zM5.6,13.6H6.4V14.4H5.6zM6.4,13.6H7.2V14.4H6.4zM9.6,13.6H10.4V14.4H9.6zM10.4,13.6H11.2V14.4H10.4zM12,13.6H12.8V14.4H12zM12.8,13.6H13.6V14.4H12.8zM13.6,13.6H14.4V14.4H13.6zM14.4,13.6H15.2V14.4H14.4zM15.2,13.6H16V14.4H15.2zM16,13.6H16.8V14.4H16zM16.8,13.6H17.6V14.4H16.8zM19.2,13.6H20V14.4H19.2zM20,13.6H20.8V14.4H20zM21.6,13.6H22.4V14.4H21.6zM23.2,13.6H24V14.4H23.2zM24,13.6H24.8V14.4H24zM26.4,13.6H27.2V14.4H26.4zM27.2,13.6H28V14.4H27.2zM28,13.6H28.8V14.4H28zM28.8,13.6H29.6V14.4H28.8zM3.2,14.4H4V15.2H3.2zM4,14.4H4.8V15.2H4zM4.8,14.4H5.6V15.2H4.8zM8,14.4H8.8V15.2H8zM8.8,14.4H9.6V15.2H8.8zM9.6,14.4H10.4V15.2H9.6zM11.2,14.4H12V15.2H11.2zM12,14.4H12.8V15.2H12zM12.8,14.4H13.6V15.2H12.8zM14.4,14.4H15.2V15.2H14.4zM17.6,14.4H18.4V15.2H17.6zM18.4,14.4H19.2V15.2H18.4zM20,14.4H20.8V15.2H20zM20.8,14.4H21.6V15.2H20.8zM23.2,14.4H24V15.2H23.2zM24,14.4H24.8V15.2H24zM24.8,14.4H25.6V15.2H24.8zM26.4,14.4H27.2V15.2H26.4zM27.2,14.4H28V15.2H27.2zM28,14.4H28.8V15.2H28zM3.2,15.2H4V16H3.2zM5.6,15.2H6.4V16H5.6zM6.4,15.2H7.2V16H6.4zM12.8,15.2H13.6V16H12.8zM13.6,15.2H14.4V16H13.6zM16,15.2H16.8V16H16zM18.4,15.2H19.2V16H18.4zM19.2,15.2H20V16H19.2zM20,15.2H20.8V16H20zM20.8,15.2H21.6V16H20.8zM21.6,15.2H22.4V16H21.6zM22.4,15.2H23.2V16H22.4zM23.2,15.2H24V16H23.2zM24,15.2H24.8V16H24zM26.4,15.2H27.2V16H26.4zM27.2,15.2H28V16H27.2zM3.2,16H4V16.8H3.2zM4,16H4.8V16.8H4zM7.2,16H8V16.8H7.2zM8,16H8.8V16.8H8zM10.4,16H11.2V16.8H10.4zM12.8,16H13.6V16.8H12.8zM16.8,16H17.6V16.8H16.8zM18.4,16H19.2V16.8H18.4zM20.8,16H21.6V16.8H20.8zM22.4,16H23.2V16.8H22.4zM23.2,16H24V16.8H23.2zM24.8,16H25.6V16.8H24.8zM25.6,16H26.4V16.8H25.6zM28.8,16H29.6V16.8H28.8zM4,16.8H4.8V17.6H4zM4.8,16.8H5.6V17.6H4.8zM6.4,16.8H7.2V17.6H6.4zM7.2,16.8H8V17.6H7.2zM8.8,16.8H9.6V17.6H8.8zM9.6,16.8H10.4V17.6H9.6zM10.4,16.8H11.2V17.6H10.4zM14.4,16.8H15.2V17.6H14.4zM16.8,16.8H17.6V17.6H16.8zM18.4,16.8H19.2V17.6H18.4zM19.2,16.8H20V17.6H19.2zM20.8,16.8H21.6V17.6H20.8zM21.6,16.8H22.4V17.6H21.6zM24,16.8H24.8V17.6H24zM24.8,16.8H25.6V17.6H24.8zM26.4,16.8H27.2V17.6H26.4zM27.2,16.8H28V17.6H27.2zM28.8,16.8H29.6V17.6H28.8zM3.2,17.6H4V18.4H3.2zM7.2,17.6H8V18.4H7.2zM8,17.6H8.8V18.4H8zM12,17.6H12.8V18.4H12zM14.4,17.6H15.2V18.4H14.4zM15.2,17.6H16V18.4H15.2zM16.8,17.6H17.6V18.4H16.8zM19.2,17.6H20V18.4H19.2zM20,17.6H20.8V18.4H20zM20.8,17.6H21.6V18.4H20.8zM24.8,17.6H25.6V18.4H24.8zM25.6,17.6H26.4V18.4H25.6zM27.2,17.6H28V18.4H27.2zM28,17.6H28.8V18.4H28zM9.6,18.4H10.4V19.2H9.6zM10.4,18.4H11.2V19.2H10.4zM12.8,18.4H13.6V19.2H12.8zM16.8,18.4H17.6V19.2H16.8zM17.6,18.4H18.4V19.2H17.6zM20,18.4H20.8V19.2H20zM20.8,18.4H21.6V19.2H20.8zM21.6,18.4H22.4V19.2H21.6zM24.8,18.4H25.6V19.2H24.8zM25.6,18.4H26.4V19.2H25.6zM26.4,18.4H27.2V19.2H26.4zM27.2,18.4H28V19.2H27.2zM28,18.4H28.8V19.2H28zM3.2,19.2H4V20H3.2zM4.8,19.2H5.6V20H4.8zM6.4,19.2H7.2V20H6.4zM7.2,19.2H8V20H7.2zM8,19.2H8.8V20H8zM8.8,19.2H9.6V20H8.8zM11.2,19.2H12V20H11.2zM12,19.2H12.8V20H12zM14.4,19.2H15.2V20H14.4zM15.2,19.2H16V20H15.2zM16,19.2H16.8V20H16zM20.8,19.2H21.6V20H20.8zM21.6,19.2H22.4V20H21.6zM22.4,19.2H23.2V20H22.4zM23.2,19.2H24V20H23.2zM25.6,19.2H26.4V20H25.6zM26.4,19.2H27.2V20H26.4zM28.8,19.2H29.6V20H28.8zM3.2,20H4V20.8H3.2zM4,20H4.8V20.8H4zM4.8,20H5.6V20.8H4.8zM5.6,20H6.4V20.8H5.6zM7.2,20H8V20.8H7.2zM9.6,20H10.4V20.8H9.6zM11.2,20H12V20.8H11.2zM12.8,20H13.6V20.8H12.8zM15.2,20H16V20.8H15.2zM17.6,20H18.4V20.8H17.6zM20,20H20.8V20.8H20zM21.6,20H22.4V20.8H21.6zM24,20H24.8V20.8H24zM27.2,20H28V20.8H27.2zM28.8,20H29.6V20.8H28.8zM3.2,20.8H4V21.6H3.2zM4.8,20.8H5.6V21.6H4.8zM8,20.8H8.8V21.6H8zM9.6,20.8H10.4V21.6H9.6zM12.8,20.8H13.6V21.6H12.8zM13.6,20.8H14.4V21.6H13.6zM14.4,20.8H15.2V21.6H14.4zM15.2,20.8H16V21.6H15.2zM16,20.8H16.8V21.6H16zM19.2,20.8H20V21.6H19.2zM23.2,20.8H24V21.6H23.2zM24,20.8H24.8V21.6H24zM26.4,20.8H27.2V21.6H26.4zM27.2,20.8H28V21.6H27.2zM28,20.8H28.8V21.6H28zM3.2,21.6H4V22.4H3.2zM4.8,21.6H5.6V22.4H4.8zM9.6,21.6H10.4V22.4H9.6zM12,21.6H12.8V22.4H12zM13.6,21.6H14.4V22.4H13.6zM15.2,21.6H16V22.4H15.2zM17.6,21.6H18.4V22.4H17.6zM18.4,21.6H19.2V22.4H18.4zM19.2,21.6H20V22.4H19.2zM20,21.6H20.8V22.4H20zM20.8,21.6H21.6V22.4H20.8zM24,21.6H24.8V22.4H24zM25.6,21.6H26.4V22.4H25.6zM26.4,21.6H27.2V22.4H26.4zM27.2,21.6H28V22.4H27.2zM28.8,21.6H29.6V22.4H28.8zM3.2,22.4H4V23.2H3.2zM8,22.4H8.8V23.2H8zM9.6,22.4H10.4V23.2H9.6zM10.4,22.4H11.2V23.2H10.4zM11.2,22.4H12V23.2H11.2zM13.6,22.4H14.4V23.2H13.6zM15.2,22.4H16V23.2H15.2zM16.8,22.4H17.6V23.2H16.8zM18.4,22.4H19.2V23.2H18.4zM20.8,22.4H21.6V23.2H20.8zM21.6,22.4H22.4V23.2H21.6zM22.4,22.4H23.2V23.2H22.4zM23.2,22.4H24V23.2H23.2zM24,22.4H24.8V23.2H24zM24.8,22.4H25.6V23.2H24.8zM25.6,22.4H26.4V23.2H25.6zM9.6,23.2H10.4V24H9.6zM12.8,23.2H13.6V24H12.8zM13.6,23.2H14.4V24H13.6zM16,23.2H16.8V24H16zM17.6,23.2H18.4V24H17.6zM18.4,23.2H19.2V24H18.4zM19.2,23.2H20V24H19.2zM22.4,23.2H23.2V24H22.4zM25.6,23.2H26.4V24H25.6zM27.2,23.2H28V24H27.2zM28.8,23.2H29.6V24H28.8zM3.2,24H4V24.8H3.2zM4,24H4.8V24.8H4zM4.8,24H5.6V24.8H4.8zM5.6,24H6.4V24.8H5.6zM6.4,24H7.2V24.8H6.4zM7.2,24H8V24.8H7.2zM8,24H8.8V24.8H8zM12,24H12.8V24.8H12zM14.4,24H15.2V24.8H14.4zM15.2,24H16V24.8H15.2zM16,24H16.8V24.8H16zM17.6,24H18.4V24.8H17.6zM19.2,24H20V24.8H19.2zM20.8,24H21.6V24.8H20.8zM21.6,24H22.4V24.8H21.6zM22.4,24H23.2V24.8H22.4zM24,24H24.8V24.8H24zM25.6,24H26.4V24.8H25.6zM27.2,24H28V24.8H27.2zM28,24H28.8V24.8H28zM3.2,24.8H4V25.6H3.2zM8,24.8H8.8V25.6H8zM9.6,24.8H10.4V25.6H9.6zM11.2,24.8H12V25.6H11.2zM12,24.8H12.8V25.6H12zM15.2,24.8H16V25.6H15.2zM16,24.8H16.8V25.6H16zM18.4,24.8H19.2V25.6H18.4zM20,24.8H20.8V25.6H20zM20.8,24.8H21.6V25.6H20.8zM21.6,24.8H22.4V25.6H21.6zM22.4,24.8H23.2V25.6H22.4zM25.6,24.8H26.4V25.6H25.6zM26.4,24.8H27.2V25.6H26.4zM27.2,24.8H28V25.6H27.2zM28,24.8H28.8V25.6H28zM28.8,24.8H29.6V25.6H28.8zM3.2,25.6H4V26.4H3.2zM4.8,25.6H5.6V26.4H4.8zM5.6,25.6H6.4V26.4H5.6zM6.4,25.6H7.2V26.4H6.4zM8,25.6H8.8V26.4H8zM9.6,25.6H10.4V26.4H9.6zM10.4,25.6H11.2V26.4H10.4zM12,25.6H12.8V26.4H12zM15.2,25.6H16V26.4H15.2zM17.6,25.6H18.4V26.4H17.6zM20.8,25.6H21.6V26.4H20.8zM22.4,25.6H23.2V26.4H22.4zM23.2,25.6H24V26.4H23.2zM24,25.6H24.8V26.4H24zM24.8,25.6H25.6V26.4H24.8zM25.6,25.6H26.4V26.4H25.6zM26.4,25.6H27.2V26.4H26.4zM28,25.6H28.8V26.4H28zM28.8,25.6H29.6V26.4H28.8zM3.2,26.4H4V27.2H3.2zM4.8,26.4H5.6V27.2H4.8zM5.6,26.4H6.4V27.2H5.6zM6.4,26.4H7.2V27.2H6.4zM8,26.4H8.8V27.2H8zM9.6,26.4H10.4V27.2H9.6zM11.2,26.4H12V27.2H11.2zM12.8,26.4H13.6V27.2H12.8zM15.2,26.4H16V27.2H15.2zM16,26.4H16.8V27.2H16zM16.8,26.4H17.6V27.2H16.8zM18.4,26.4H19.2V27.2H18.4zM21.6,26.4H22.4V27.2H21.6zM22.4,26.4H23.2V27.2H22.4zM23.2,26.4H24V27.2H23.2zM25.6,26.4H26.4V27.2H25.6zM26.4,26.4H27.2V27.2H26.4zM28,26.4H28.8V27.2H28zM28.8,26.4H29.6V27.2H28.8zM3.2,27.2H4V28H3.2zM4.8,27.2H5.6V28H4.8zM5.6,27.2H6.4V28H5.6zM6.4,27.2H7.2V28H6.4zM8,27.2H8.8V28H8zM9.6,27.2H10.4V28H9.6zM10.4,27.2H11.2V28H10.4zM14.4,27.2H15.2V28H14.4zM17.6,27.2H18.4V28H17.6zM19.2,27.2H20V28H19.2zM20,27.2H20.8V28H20zM21.6,27.2H22.4V28H21.6zM22.4,27.2H23.2V28H22.4zM24,27.2H24.8V28H24zM24.8,27.2H25.6V28H24.8zM27.2,27.2H28V28H27.2zM3.2,28H4V28.8H3.2zM8,28H8.8V28.8H8zM10.4,28H11.2V28.8H10.4zM12,28H12.8V28.8H12zM12.8,28H13.6V28.8H12.8zM14.4,28H15.2V28.8H14.4zM16,28H16.8V28.8H16zM17.6,28H18.4V28.8H17.6zM18.4,28H19.2V28.8H18.4zM19.2,28H20V28.8H19.2zM20,28H20.8V28.8H20zM20.8,28H21.6V28.8H20.8zM23.2,28H24V28.8H23.2zM25.6,28H26.4V28.8H25.6zM27.2,28H28V28.8H27.2zM3.2,28.8H4V29.6H3.2zM4,28.8H4.8V29.6H4zM4.8,28.8H5.6V29.6H4.8zM5.6,28.8H6.4V29.6H5.6zM6.4,28.8H7.2V29.6H6.4zM7.2,28.8H8V29.6H7.2zM8,28.8H8.8V29.6H8zM9.6,28.8H10.4V29.6H9.6zM11.2,28.8H12V29.6H11.2zM12.8,28.8H13.6V29.6H12.8zM13.6,28.8H14.4V29.6H13.6zM14.4,28.8H15.2V29.6H14.4zM16,28.8H16.8V29.6H16zM16.8,28.8H17.6V29.6H16.8zM19.2,28.8H20V29.6H19.2zM20.8,28.8H21.6V29.6H20.8zM22.4,28.8H23.2V29.6H22.4zM23.2,28.8H24V29.6H23.2zM24.8,28.8H25.6V29.6H24.8zM28,28.8H28.8V29.6H28z" id="qr-path" fill="#000000" fill-opacity="1" fill-rule="nonzero" stroke="none" /></svg><p>휴대폰 카메라로 QR 코드를 비추면 이 안내 페이지가 열려요. 휴대폰에서 토스에서 내 취향 찾기를 눌러주세요.</p><p>QR을 읽기 어렵다면 아래 링크를 휴대폰으로 보내주세요.<br><a href="https://neogenesisai.github.io/ideal-type-calc-og/">테스트 안내 페이지 링크</a></p></details><div class="share-actions"><button type="button" id="share-test">친구에게 테스트 공유</button><button type="button" id="copy-link">링크 복사</button></div><p id="share-status" class="share-status" role="status" aria-live="polite"></p><input id="manual-link" class="manual-link" aria-label="친구에게 보낼 테스트 링크" readonly hidden><section class="daily-preview" aria-labelledby="daily-title"><h2 id="daily-title">오늘의 취향 대화</h2><p id="daily-date" class="daily-date"></p><p id="daily-archive-note" class="small" hidden></p><a id="daily-today-link" href="https://neogenesisai.github.io/ideal-type-calc-og/#daily-title" hidden>오늘의 새 질문 보기</a><p id="daily-question"></p><div class="daily-options"><button id="daily-a" type="button" aria-pressed="false"></button><button id="daily-b" type="button" aria-pressed="false"></button></div><p id="daily-status" class="daily-status" role="status" aria-live="polite"></p><a class="cta" id="daily-next" href="intoss://ideal-type-calc" hidden>토스에서 10문항으로 내 취향 확인</a><div class="share-actions"><button type="button" id="share-daily">오늘의 질문 친구에게 보내기</button></div><p id="daily-share-status" class="share-status" role="status" aria-live="polite"></p><textarea id="daily-share-text" class="manual-link" rows="7" aria-label="친구에게 보낼 오늘의 질문" readonly hidden></textarea><p class="small">공유 링크에서는 같은 날짜의 질문을 볼 수 있고, 내 선택은 포함되지 않아요. 오늘의 선택만 이 브라우저에 저장돼요. 지난 질문의 선택은 저장되지 않으며 토스 결과에는 반영되지 않아요.</p><noscript><p>오늘의 질문은 토스에서 결과를 확인한 뒤 볼 수 있어요.</p></noscript></section><h2 class="preview-intro" id="preview-heading">결과는 이렇게 보여요</h2><p class="small">예시 답변으로 만든 결과예요. 내 결과는 토스에서 10문항에 답하면 확인할 수 있어요.</p><details class="result-preview" aria-labelledby="preview-heading"><summary><span class="preview-crop"><img src="result-live9.png" width="390" height="1286" loading="lazy" alt="예시 결과: 감성적인 모험가. 새로운 경험과 즉흥 여행을 즐기는 사람을 좋아하는 취향"></span><span class="preview-expand">다섯 축이 담긴 전체 예시 펼치기</span><span class="preview-collapse">전체 예시 접기</span></summary><div class="preview-body"><p class="preview-note">아래는 실제 앱 화면의 예시예요. 날짜와 오늘의 질문은 이용하는 날에 따라 달라져요.</p><img class="preview-full" src="result-live9.png" width="390" height="1286" loading="lazy" alt="감성적인 모험가 예시 화면: 모험·감성·활발·즉흥·다정 취향, 잘 맞는 사람의 특징, 오늘의 취향 대화"></div></details><a class="cta" id="start-after-preview" href="intoss://ideal-type-calc">토스에서 내 결과 확인하기</a><p class="hint">10문항에 답하고 내 취향을 확인해 보세요.</p><section class="feature"><h2>결과는 친구와 함께</h2><p>내 취향 프로필과 잘 맞는 사람의 특징을 확인하고, 결과 카드를 공유해 서로의 취향을 이야기해 보세요.</p></section><section class="feature"><h2>내일은 새로운 취향 대화</h2><p>결과 아래에서 매일 바뀌는 질문에 답해 보세요. 오늘의 선택은 테스트 결과를 바꾸지 않아요.</p></section><p class="small">답변에 정해진 가중치를 적용하는 재미용 자기취향 테스트예요. AI 추론·심리 진단·점술·연애 성공 예측·실제 상대 추천이 아닙니다. 이 안내 페이지의 오늘의 선택은 이 브라우저에만 저장되며, 토스 서비스 이용 연령은 만 19세 이상입니다.</p></article><p class="foot">이상형 찾기 테스트 · 이상형 계산기</p></main><script>
 (() => {
   const url = 'https://neogenesisai.github.io/ideal-type-calc-og/';
   const shareButton = document.getElementById('share-test');
